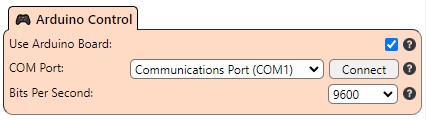
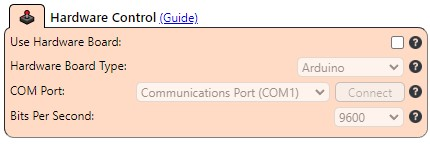
README update + additional warning

diff --git a/app/main.js b/app/main.js
@@ -215,7 +215,7 @@ By pressing "Accept" you agree to everything stated above.`,
     } else {
       log.ok(`Found ${games.length} window${games.length > 1 ? `s` : ``} of the game!`);
     }
-
+    /*
     if(type != `relZone` && settings.initialZone){
       await new Promise(function(resolve, reject) {
         setTimeout(resolve, 50);
@@ -225,6 +225,7 @@ By pressing "Accept" you agree to everything stated above.`,
         win.webContents.send("stop-bot");
       }
     }
+    */
 
     if(settings.initialZone) {
       settings.initialZone = false;
@@ -244,6 +245,16 @@ By pressing "Accept" you agree to everything stated above.`,
 
       win.focus();
       return;
+    }
+
+    if((settings.game == `Retail` || settings.game == `Classic` || settings.game == `Cata Classic`)) {
+      await new Promise(function(resolve, reject) {
+        setTimeout(resolve, 50);
+      });
+      if((showChoiceWarning(win, `You are about to start the bot in a default mode on official servers.\n\nIt's not just a disclaimer, your account WILL be banned sooner or later.\n\nYou can use Streaming Mode for a much safer approach.\n\nAre you sure you want to continue?`, `Warning`, `Yes `, `No (recommended)`))) {
+        win.webContents.send("stop-bot");
+        return;
+      }
     }
 
     if(config.patch[settings.game].startByFishingKey) {

diff --git a/README.md b/README.md
@@ -18,7 +18,19 @@
 - [Applying Lures](#applying-lures-pushpin)
 - [Interactive key](#interactive-key)
 - [Download](#download-open_file_folder)
-- [AutoFish Premium](#autofish-premiumcrown)
+- [AutoFish Premium](#autofish-premium-gem)
+  - [Remote Control](#remote-control-iphone)
+  - [Multiple Fishing Mode](#multiple-fishing-mode-rocket)
+  - [Alt-Tab Fishing Mode](#alt-tab-fishing-mode-sleeping)
+  - [Sound Detection](#sound-detection-loud_sound)
+  - [Additional Actions](#additional-actions-mage)
+  - [Check For Players Around](#check-for-players-around-telescope)
+  - [Attacking / Running away](#attackingrunning-away-crossed_swords)
+  - [Random camera/character movements](#random-cameracharacter-movements-robot)
+  - [Hardware Control](#hardware-control-joystick)
+  - [Streaming Mode](#streaming-mode-tv)
+  - [Mount Selling](#mount-selling-elephant)
+  - [Motion Detection](#motion-detection-runner)
 
 ## Fishing bot :fish:
 
@@ -155,7 +167,7 @@ Or
 /script UseContainerItem(0,2); PickupInventoryItem(16);
 ```
 
-## AutoFish Premium	:crown:
+## AutoFish Premium :gem:
 
 AutoFish Premium is an updated version of the bot with many additional features.
 
@@ -172,7 +184,8 @@ AutoFish Premium is an updated version of the bot with many additional features.
 - [Check For Players Around](#check-for-players-around-telescope)
 - [Attacking / Running away](#attackingrunning-away-crossed_swords)
 - [Random camera/character movements](#random-cameracharacter-movements-robot)
-- [Arduino Control](#arduino-control-joystick)
+- [Hardware Control](#hardware-control-joystick)
+- [Streaming Mode](#streaming-mode-tv)
 - [Mount Selling](#mount-selling-elephant)
 - [Motion Detection](#motion-detection-runner)
 - Profiles
@@ -228,13 +241,13 @@ Watch <img src="https://upload.wikimedia.org/wikipedia/commons/thumb/0/09/YouTub
 
 Sound Detection is an alternative to pixel recognition logic. The bot will hook the bobber only after "splash" sound and won't rely on checking the animation of the bobber plunging.
 
-With both Int. Key and Sound Detection turned on you can be completely independent from Threshold and Fishing Zone options. If you don't use Int. key or the game doesn't support it, the bot still needs to find a bobber first but checking will be done by sound recognition if you turn on Sound Detection option.
+Before using sound detection turn off Music and Ambient Sounds in the game, leave only Sound Effects. Try to find a place secluded from the sounds made by other players to avoid false detections.
 
-Before using sound detection turn off Music and Ambient Sounds in the game, leave only Sound Effects. Your volume should be at normal/default level. Try to find a place secluded from the sounds made by other players to avoid false detections.
+You can also use Alt-Tab Fishing Mode with Sound Detection, with Int.Key + Sound Detection the bot will focus the window only when it needs to cast and when it detects splash sound (turn on **Sound in Background** for that).
 
-You can also use Alt-Tab Fishing Mode in DX12 now, with Int.Key + Sound Detection the bot will focus the window only when it needs to cast and when it detects splash sound (turn on **Sound in Background** for that).
+Use **"Listen"** button to determine the amplitude of the splashing sound when your bobber plunges in the water: start fishing then press "Listen" button and check for "Max" value when the fish is caught. Do it couple of times to determine the stable value.
 
-**Warning!** Sound Detection feature might not work with some audio devices, in that case you need to switch to another device (e.g. you are using headphones and sound detection doesn't work, then plug in speakers and test again).
+If you want to make the bot listen only to the sounds of the game you can use [Virtual Audio Cable](https://vb-audio.com/Cable/) to "pipe" the sound from the game to an input device and then choose it in the settings of the bot. If your game doesn't support in-game choice for sound output device, you can manually set Output device for your game in **"App volume and device preferences"** settings of your Windows to **CABLE input (VB-Audio Virtual Cable)** and then choose **CABLE output (VB-Audio Virtual Cable)** in the settings of the bot.
 
 Watch <img src="https://upload.wikimedia.org/wikipedia/commons/thumb/0/09/YouTube_full-color_icon_%282017%29.svg/1280px-YouTube_full-color_icon_%282017%29.svg.png" width="20"> [Sound Detection Test Video](https://youtu.be/ZggOy8tA32A)
 
@@ -332,7 +345,7 @@ The bot will randomly move and change your camera direction from time to time wi
 
 Watch <img src="https://upload.wikimedia.org/wikipedia/commons/thumb/0/09/YouTube_full-color_icon_%282017%29.svg/1280px-YouTube_full-color_icon_%282017%29.svg.png" width="20"> [Random Camera/Character Movements Test Video](https://youtu.be/o1hU3fNn4uk)
 
-## Arduino Control :joystick:
+## Hardware Control :joystick:
 
 *This feature is available only for [Premium version](https://www.buymeacoffee.com/jsbots/e/96734) of the app*
 
@@ -340,7 +353,7 @@ Watch <img src="https://upload.wikimedia.org/wikipedia/commons/thumb/0/09/YouTub
 <img src="guide_img/arduino.jpg" align="center">
 </p>
 
-The bot is able to connect to your Arduino Board and use it to emulate a mouse/keyboard device, it will look like a real keyboard or mouse to the OS and the game. What you need to do to make it possible:
+The bot is able to connect to your Arduino Board/Raspberry Pico W and use it to emulate a mouse/keyboard device, it will look like a real keyboard or mouse to the OS and the game. What you need to do to make it possible:
 
 1. Get an Arduino with an ATmega32U4 on board (any cheap copies for 2-3$ will do too, you can find them on Chinese online markets).
 2. Connect it to your computer.
@@ -350,7 +363,43 @@ The bot is able to connect to your Arduino Board and use it to emulate a mouse/k
 6. Click **Sketch** -> **Upload** and wait until the code uploads to your board.
 7. Launch AutoFish, click **Advanced Settings** turn on **Use Arduino Board** option and choose the port your Arduino Board connected to, press **Connect** button.
 
-Watch <img src="https://upload.wikimedia.org/wikipedia/commons/thumb/0/09/YouTube_full-color_icon_%282017%29.svg/1280px-YouTube_full-color_icon_%282017%29.svg.png" width="20"> [Arduino Control Test Video](https://youtu.be/yE-qARS73oo)
+For **Raspberry Pico W** guide check the guide to **Streaming Mode**.
+
+Watch <img src="https://upload.wikimedia.org/wikipedia/commons/thumb/0/09/YouTube_full-color_icon_%282017%29.svg/1280px-YouTube_full-color_icon_%282017%29.svg.png" width="20"> [Hardware Control Test Video](https://youtu.be/yE-qARS73oo)
+
+## Streaming Mode :tv:
+
+*This feature is available only for [Premium version](https://www.buymeacoffee.com/jsbots/e/96734) of the app*
+
+<p align="center">
+<img src="guide_img/streaming.jpg" align="center">
+</p>
+
+Streaming logic is used to run the bot and the game on different machines, you can use either hardware device for capturing your screen or stream it with OBS to the MediaMTX Server provided by the bot.
+
+### Hardware
+
+How to use hardware device: <img src="https://upload.wikimedia.org/wikipedia/commons/thumb/0/09/YouTube_full-color_icon_%282017%29.svg/1280px-YouTube_full-color_icon_%282017%29.svg.png" width="20"> [AutoFish 3.1 - Streaming Mode](https://youtu.be/Kacworq8j8Q)
+
+### MediaMTX Server
+
+1. Choose "MediaMTX" streaming source and then press Launch button. The bot will start RTMP server and will show (in the log) your RTMP address you need to set in OBS.
+2. Install OBS [Version 29.1](https://github.com/obsproject/obs-studio/releases/download/29.1.0/OBS-Studio-29.1-Full.zip) on your gaming pc (where the game will run). *For some reason newer versions doesn't work properly with custom RTMP servers, so use 29.1 for now.*
+3. **Settings -> Stream -> Service -> Custom**. Copy the address given by the bot in **Server** field, leave Stream Key empty.
+4. If you have some additional networks (VPN and so on) make sure your OBS is connected to the same one the machine with the bot is connected to. (Advanced -> Network)
+5. Then add a new Scene and choose your game as a Source.
+6. Turn off any audio output and microphone for the stream, you won't need them.
+7. Press **"Start Streaming"**. If you see a green square in the right bottom corner, then OBS has connected to the server.
+8. Now press "Set Fishing Zone" button in AutoFish and check if you can see your stream.
+
+### VM
+
+Instead of another PC you can use a Virtual Machine for either Hardware or MediaMTX approach. There are a lot of guides how to install and use VM, so I won't cover it here (Personally tested it on VMware).
+
+ Make sure your VM uses **Bridge** type of **Network Connection** if you use it with MediaMTX server.
+
+ If you want to use it with Hardware capture device, make sure to connect it to the VM instead of host PC *(you connect it to your GPU and then to your USB and after it detects a new hardware you choose it work for VM only)*.  
+
 
 ## Download :open_file_folder:
 
@@ -362,4 +411,4 @@ Check again [Disclaimer](#disclaimer-warning) before downloading or using any of
 
 AutoFish 2.8.3: [Download](https://github.com/jsbots/AutoFish/releases/tag/v2.8.3)
 
-AutoFish 3.0.0 Premium: [Download](https://www.buymeacoffee.com/jsbots/e/96734)
+AutoFish 3.2.0 Premium: [Download](https://www.buymeacoffee.com/jsbots/e/96734)
